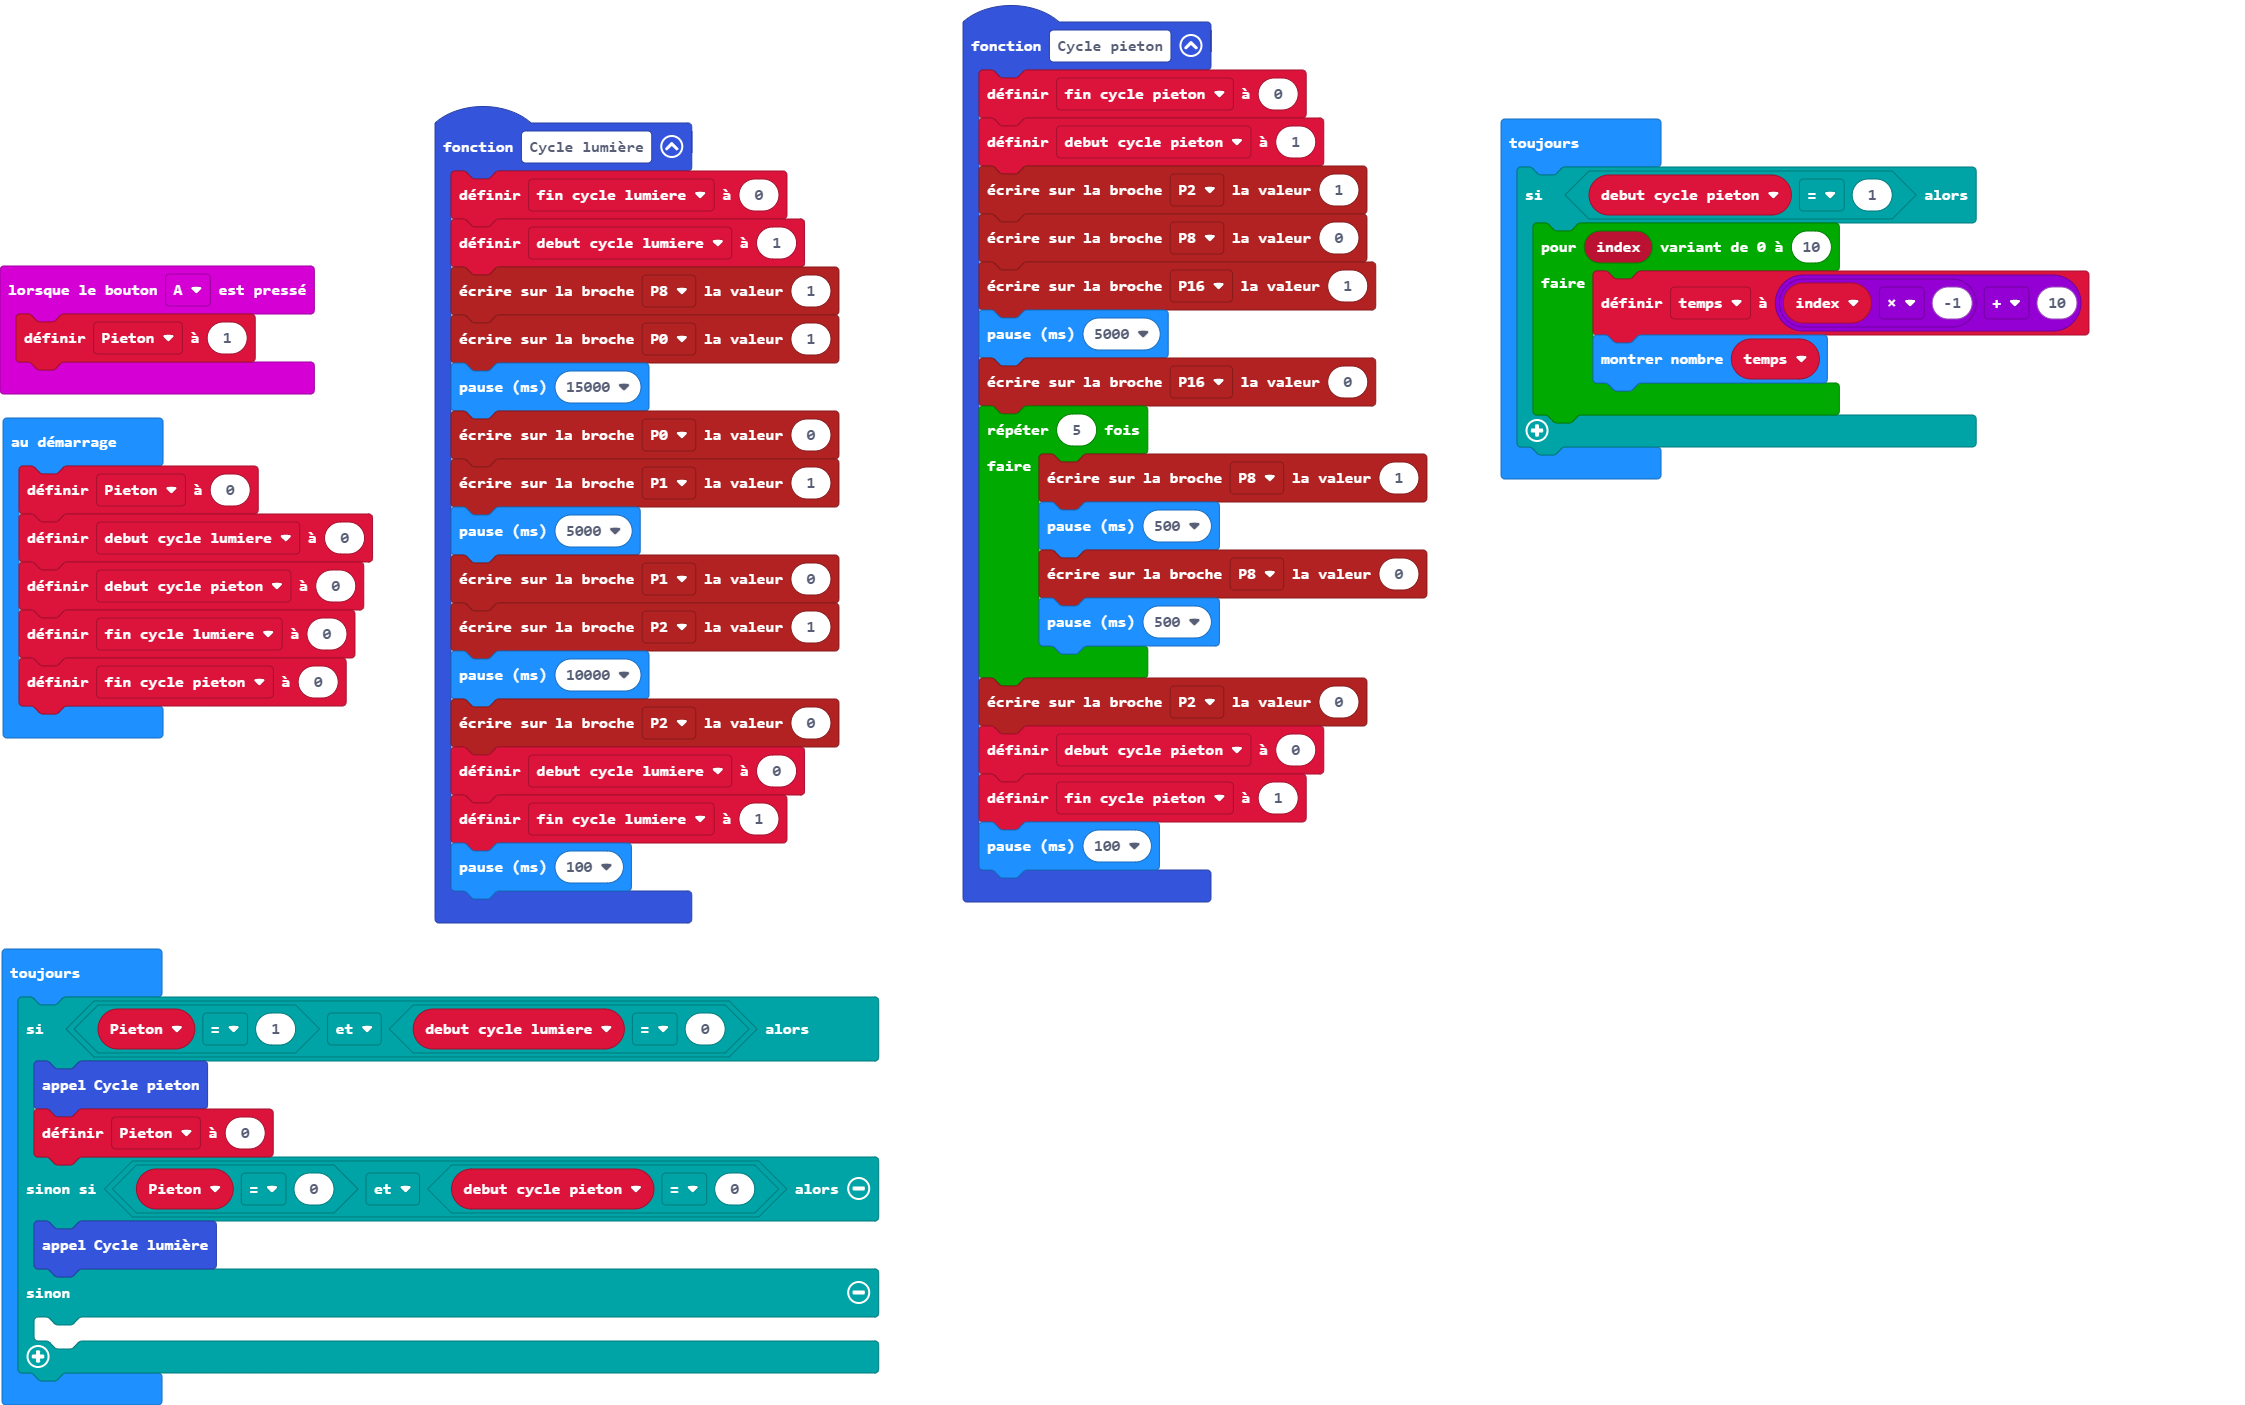
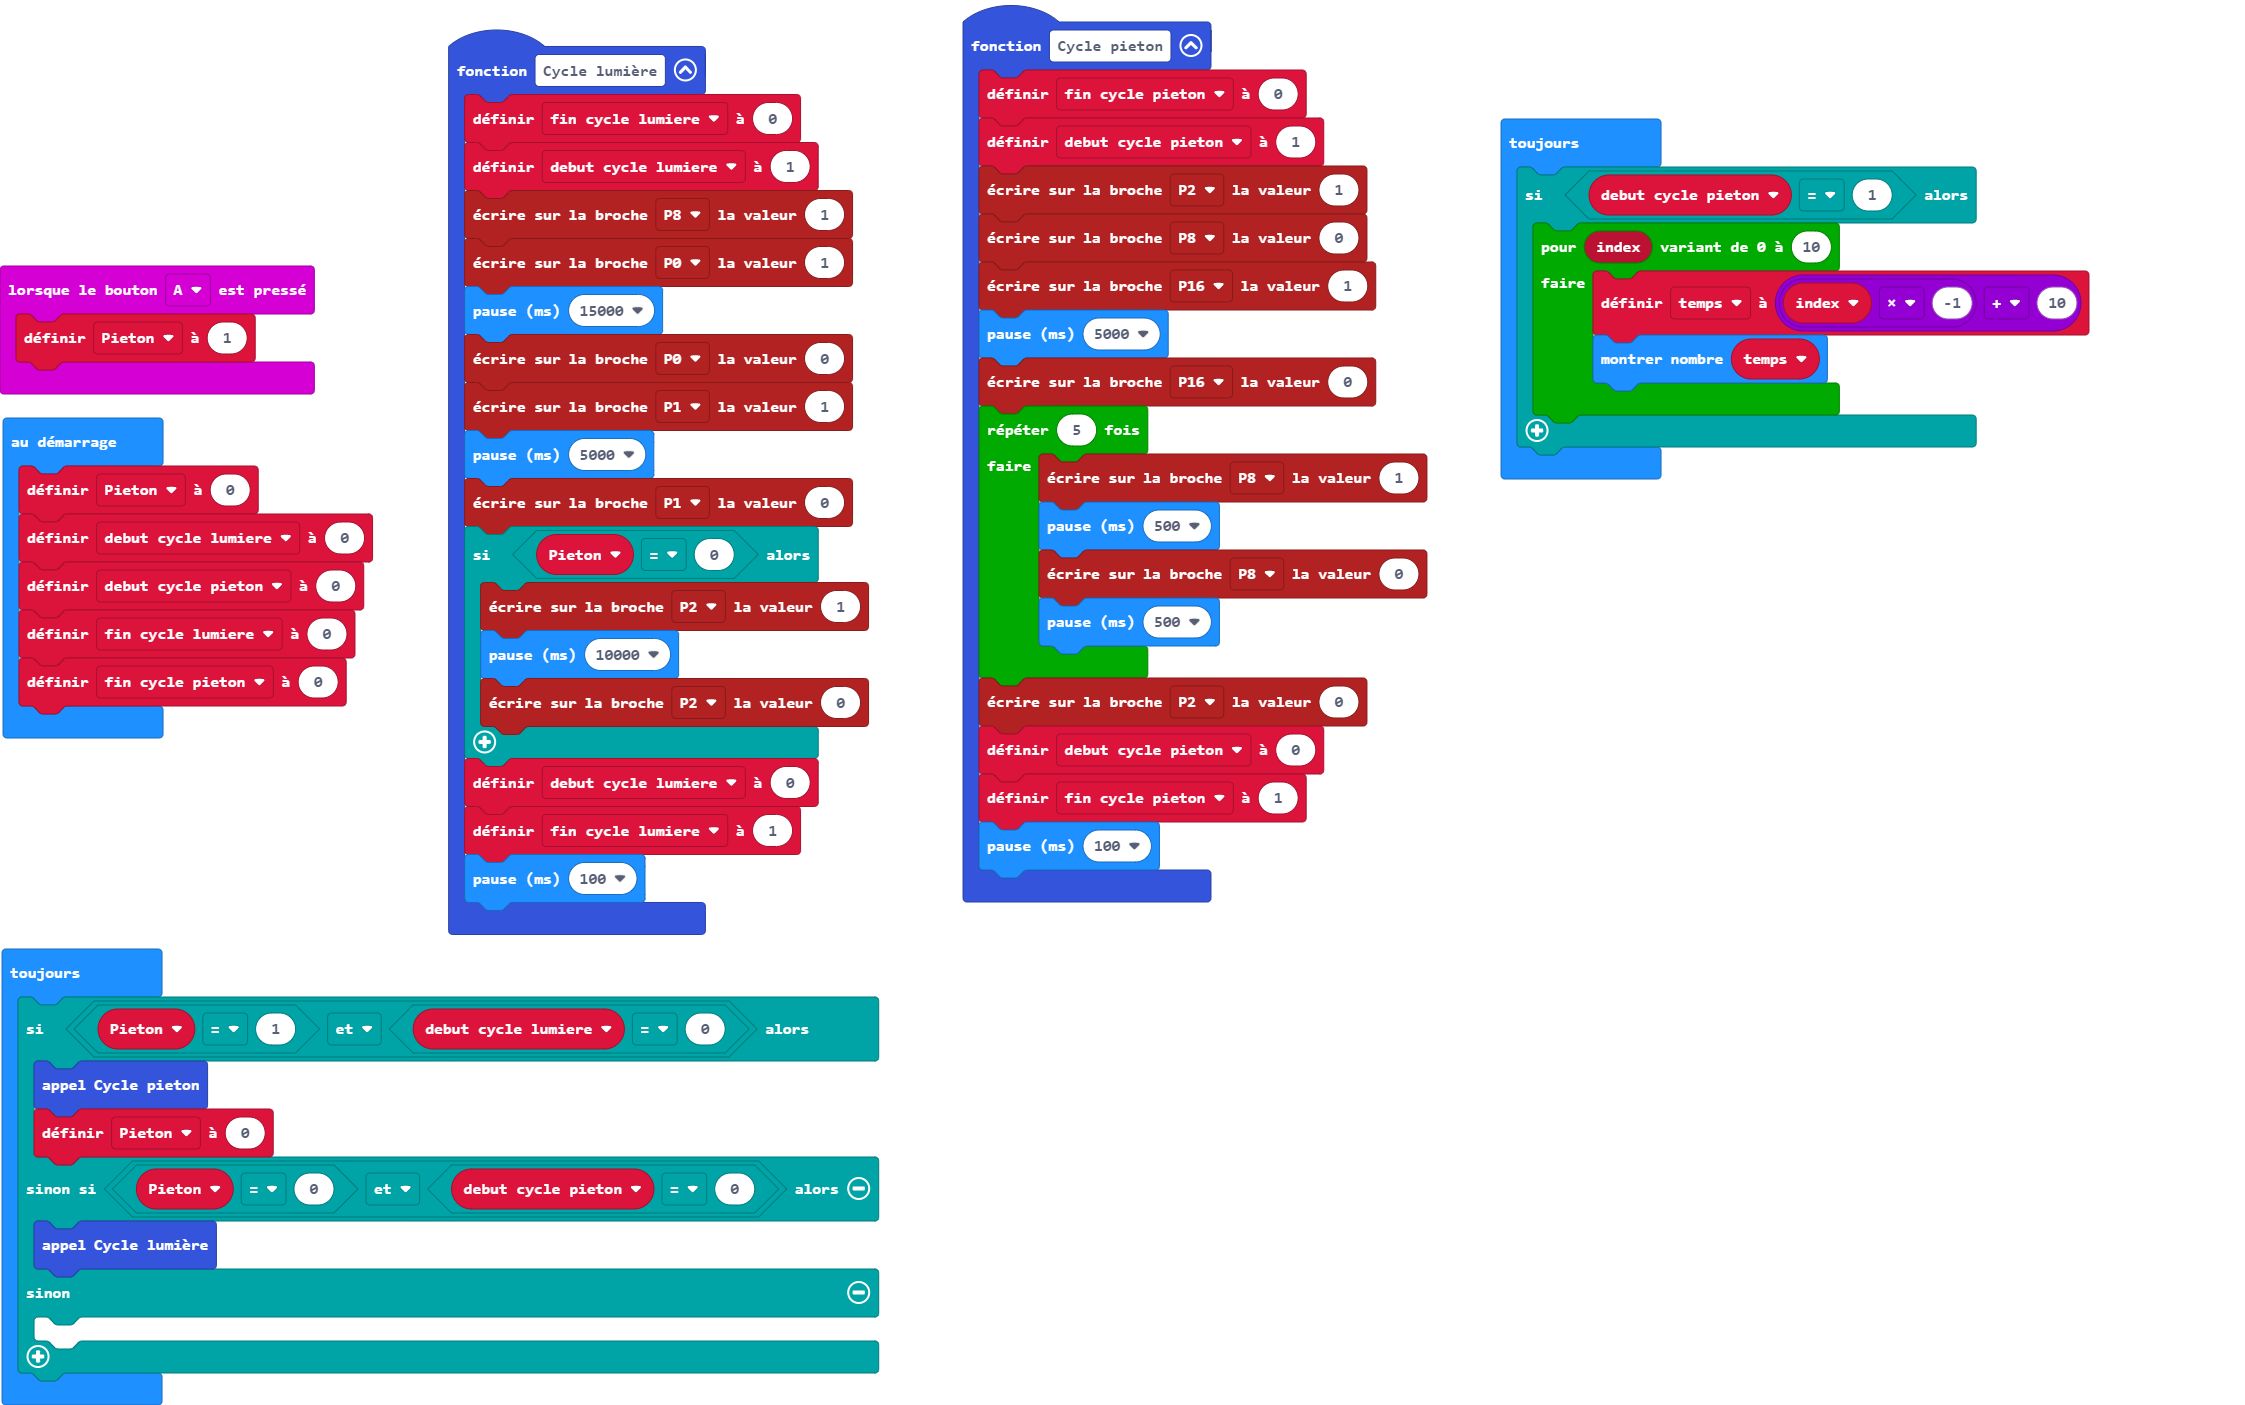
Mise à jour main.blocks, main.ts

Changed region(s): [[0.1871, 0.0, 0.4053, 0.6733]]

diff --git a/main.ts b/main.ts
@@ -30,9 +30,11 @@ function Cycle_lumière () {
     pins.digitalWritePin(DigitalPin.P1, 1)
     basic.pause(5000)
     pins.digitalWritePin(DigitalPin.P1, 0)
-    pins.digitalWritePin(DigitalPin.P2, 1)
-    basic.pause(10000)
-    pins.digitalWritePin(DigitalPin.P2, 0)
+    if (Pieton == 0) {
+        pins.digitalWritePin(DigitalPin.P2, 1)
+        basic.pause(10000)
+        pins.digitalWritePin(DigitalPin.P2, 0)
+    }
     debut_cycle_lumiere = 0
     fin_cycle_lumiere = 1
     basic.pause(100)
